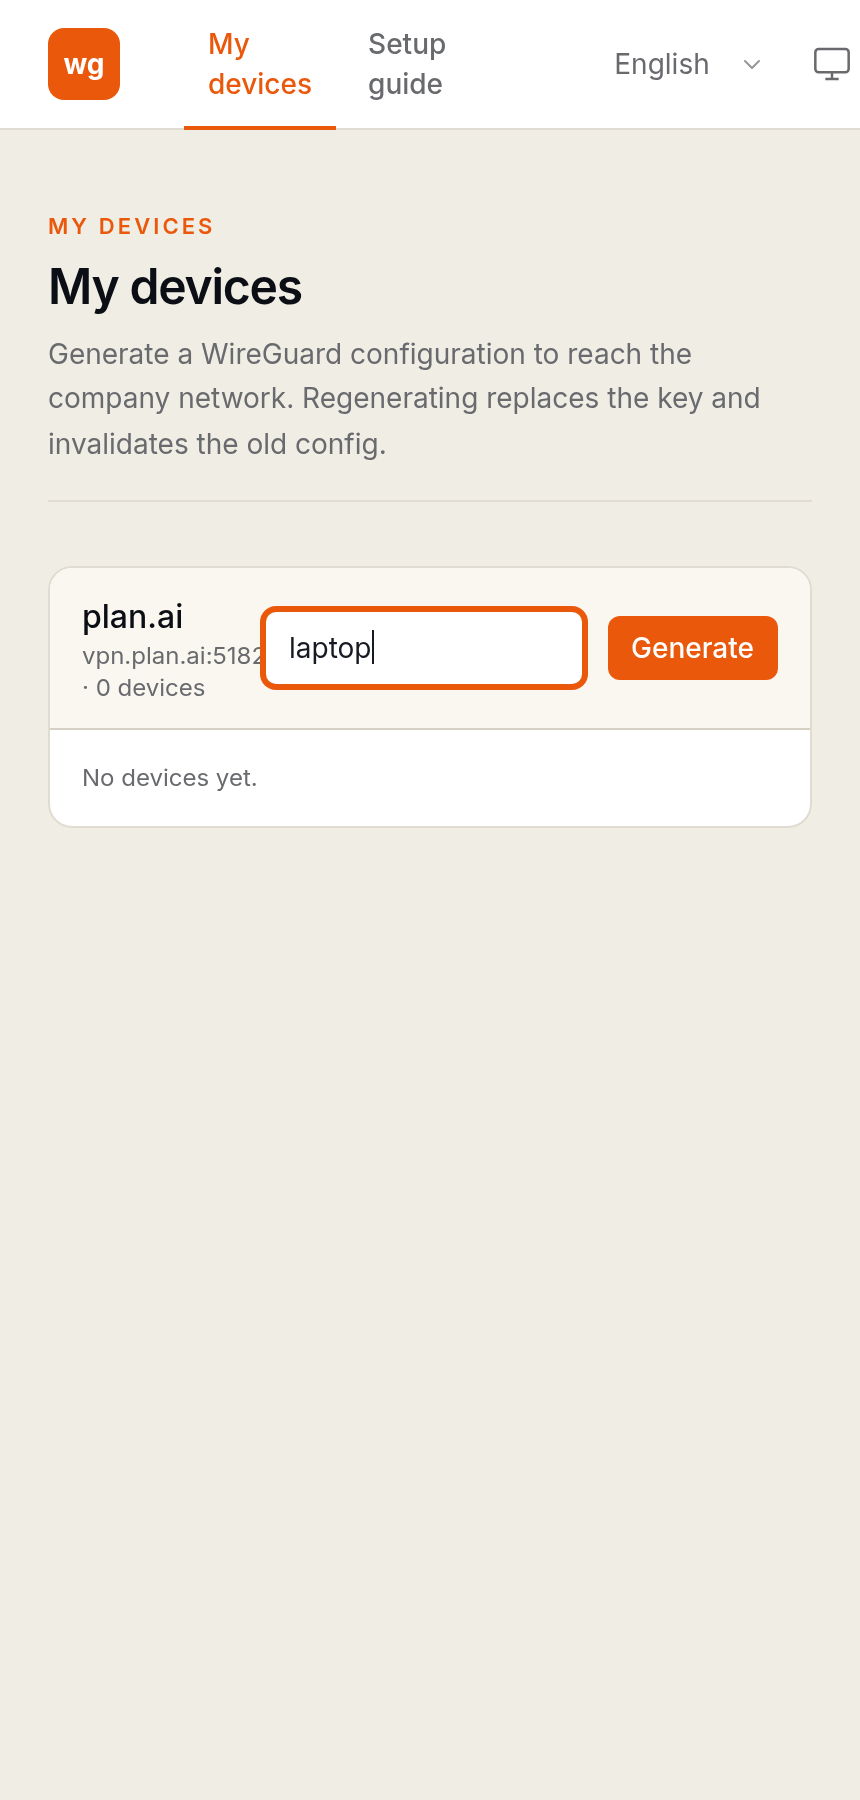
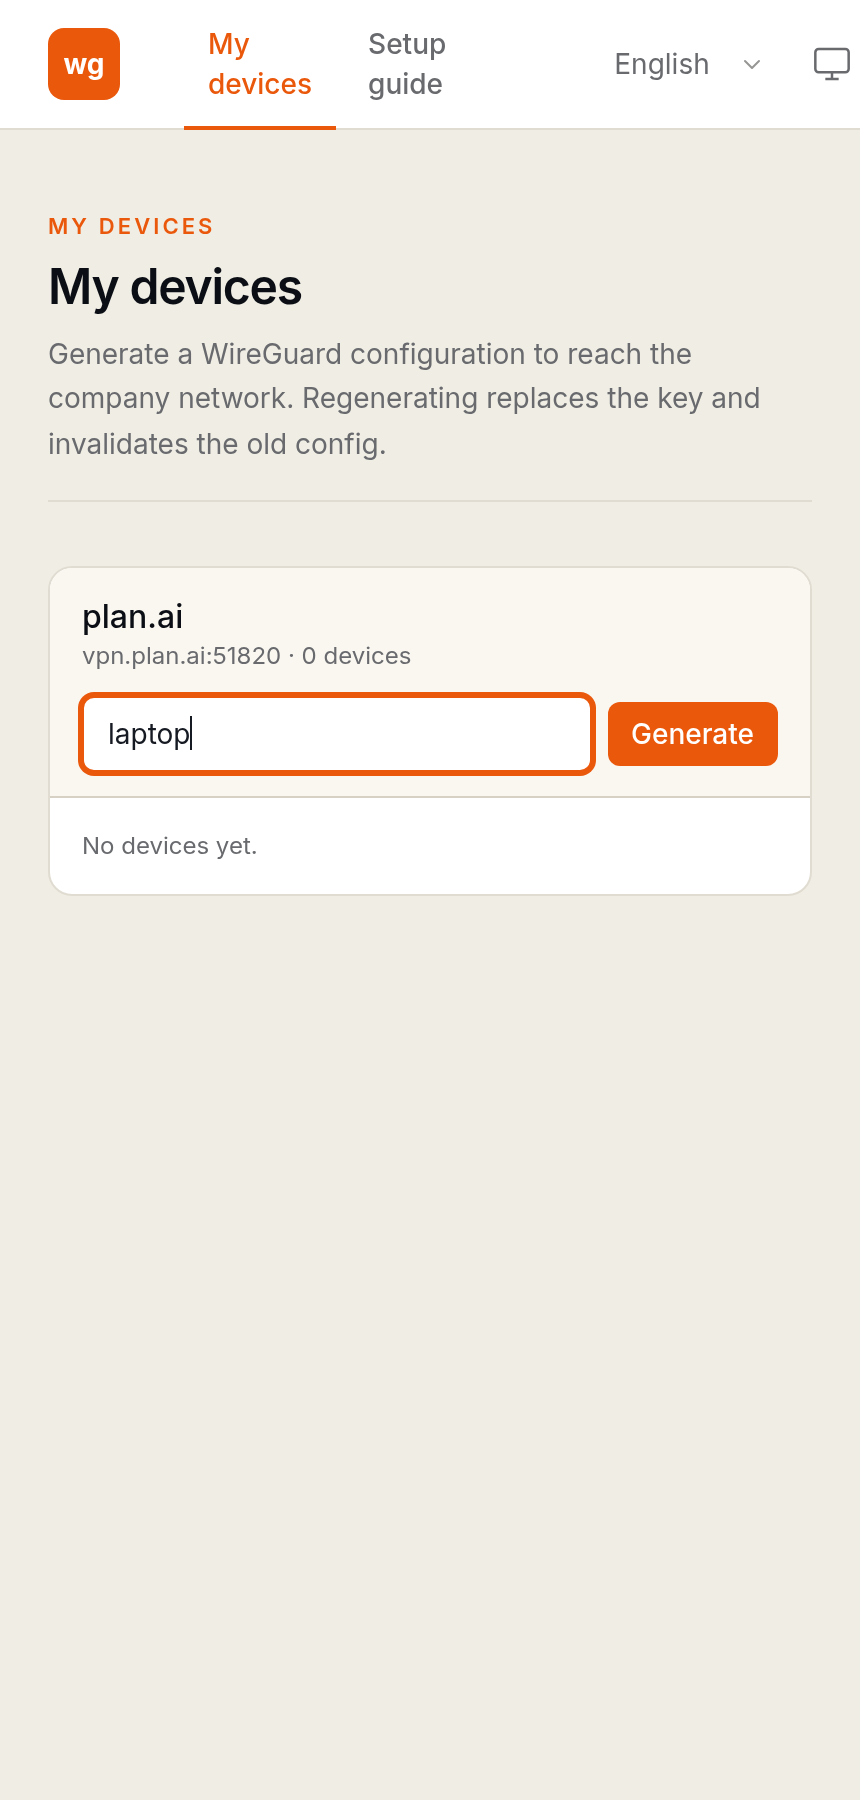
My devices: stack rows on mobile so they don't cram/truncate
The interface header (name + device-name input + Generate) and each device
row (name/address + Rename/Regenerate/Delete) were forced onto one line on
narrow viewports, truncating the endpoint and address. They now stack
vertically below the sm breakpoint: the input goes full-width and the action
buttons wrap onto their own row. Regenerated the setup-guide screenshots.

Changed region(s): [[0.0605, 0.3111, 0.9674, 0.4978]]

diff --git a/server/src/web/components/my_config.rs b/server/src/web/components/my_config.rs
@@ -85,36 +85,39 @@ fn InterfaceSection(
 
     rsx! {
         Card { class: "p-0 overflow-hidden",
-            div { class: "px-4 py-3 border-b border-line-soft bg-surface-2 flex items-center gap-3 flex-wrap",
+            div { class: "px-4 py-3 border-b border-line-soft bg-surface-2 flex flex-col sm:flex-row sm:items-center gap-3",
                 div { class: "flex-1 min-w-0",
-                    div { class: "text-fg-strong font-medium",
+                    div { class: "text-fg-strong font-medium truncate",
                         { if iface.display_name.is_empty() { iface.name.clone() } else { iface.display_name.clone() } }
                     }
-                    div { class: "text-fg-muted text-xs", "{iface.endpoint} · {quota}" }
+                    div { class: "text-fg-muted text-xs truncate", "{iface.endpoint} · {quota}" }
                 }
-                input {
-                    class: "input w-40 text-sm",
-                    placeholder: t!("devices-new-name-placeholder"),
-                    value: "{new_name}",
-                    oninput: move |e| new_name.set(e.value()),
-                }
-                Button {
-                    variant: ButtonVariant::Primary,
-                    disabled: at_limit || new_name().trim().is_empty(),
-                    onclick: move |_| {
-                        let name = new_name();
-                        async move {
-                            match create_my_device(iid, name).await {
-                                Ok(v) => {
-                                    new_name.set(String::new());
-                                    on_show.call((v.config, v.qr_svg, v.filename));
-                                    on_change.call(());
+                // Input + Generate: their own row, full-width on mobile.
+                div { class: "flex items-center gap-2 w-full sm:w-auto",
+                    input {
+                        class: "input flex-1 sm:w-40 text-sm",
+                        placeholder: t!("devices-new-name-placeholder"),
+                        value: "{new_name}",
+                        oninput: move |e| new_name.set(e.value()),
+                    }
+                    Button {
+                        variant: ButtonVariant::Primary,
+                        disabled: at_limit || new_name().trim().is_empty(),
+                        onclick: move |_| {
+                            let name = new_name();
+                            async move {
+                                match create_my_device(iid, name).await {
+                                    Ok(v) => {
+                                        new_name.set(String::new());
+                                        on_show.call((v.config, v.qr_svg, v.filename));
+                                        on_change.call(());
+                                    }
+                                    Err(e) => on_error.call(e.to_string()),
                                 }
-                                Err(e) => on_error.call(e.to_string()),
                             }
-                        }
-                    },
-                    {t!("action-generate")}
+                        },
+                        {t!("action-generate")}
+                    }
                 }
             }
 
@@ -157,23 +160,25 @@ fn DeviceRow(
     let mut renaming = use_signal(|| false);
     let mut new_name = use_signal(|| name.clone());
     rsx! {
-        div { class: "flex items-center gap-3 border-t border-line-soft pt-2 first:border-0 first:pt-0",
+        div { class: "flex flex-col sm:flex-row sm:items-center gap-2 border-t border-line-soft pt-2 first:border-0 first:pt-0",
             div { class: "flex-1 min-w-0",
                 if renaming() {
                     input {
-                        class: "input text-sm w-48",
+                        class: "input text-sm w-full sm:w-48",
                         value: "{new_name}",
                         oninput: move |e| new_name.set(e.value()),
                     }
                 } else {
-                    div { class: "text-fg-strong text-sm", "{display_name}" }
+                    div { class: "text-fg-strong text-sm truncate", "{display_name}" }
                 }
                 if configured {
-                    div { class: "text-fg-muted text-xs font-mono", "{address}" }
+                    div { class: "text-fg-muted text-xs font-mono truncate", "{address}" }
                 } else {
                     div { class: "text-warn text-xs", {t!("device-unconfigured-note")} }
                 }
             }
+            // Action buttons wrap on mobile instead of overflowing.
+            div { class: "flex flex-wrap items-center gap-2 shrink-0",
             // Users may rename only their own user-created devices.
             if user_created {
                 if renaming() {
@@ -216,6 +221,7 @@ fn DeviceRow(
                     }
                 },
                 {t!("action-delete")}
+            }
             }
         }
     }
